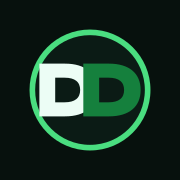
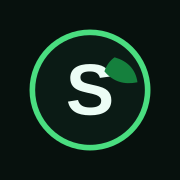
Rename app to Salix

Changed region(s): [[0.1944, 0.3056, 0.8056, 0.6667]]

diff --git a/index.html b/index.html
@@ -9,8 +9,8 @@
   <meta name="mobile-web-app-capable" content="yes" />
   <meta name="apple-mobile-web-app-capable" content="yes" />
   <meta name="apple-mobile-web-app-status-bar-style" content="black-translucent" />
-  <meta name="apple-mobile-web-app-title" content="DD Attendix" />
-  <title>Danube Dragons Attendance</title>
+  <meta name="apple-mobile-web-app-title" content="Salix" />
+  <title>Salix · Danube Dragons</title>
   <link rel="manifest" href="/manifest.webmanifest" />
   <link rel="icon" type="image/svg+xml" href="/icons/icon.svg" />
   <link rel="apple-touch-icon" href="/icons/apple-touch-icon.png" />
@@ -22,7 +22,7 @@
   <div id="loginScreen">
     <section class="hero">
       <div class="roleBadge">Login</div>
-      <h1>DD Attendix</h1>
+      <h1>Salix</h1>
       <p class="smallMuted">
         ...
       </p>
@@ -55,7 +55,7 @@
 
   <div id="appScreen" class="hidden app">
     <aside class="sidebar">
-      <div class="brand">Danube Dragons</div>
+      <div class="brand">Salix</div>
       <div class="nav" id="nav"></div>
     </aside>
 

diff --git a/offline.html b/offline.html
@@ -4,7 +4,7 @@
   <meta charset="UTF-8" />
   <meta name="viewport" content="width=device-width, initial-scale=1.0, viewport-fit=cover" />
   <meta name="theme-color" content="#07110d" />
-  <title>DD Attendix ist offline</title>
+  <title>Salix ist offline</title>
   <style>
     * { box-sizing: border-box; }
     body {
@@ -42,7 +42,7 @@
 <body>
   <main>
     <h1>Keine Verbindung</h1>
-    <p>DD Attendix kann gerade keine Verbindung herstellen. Bereits geladene Ansichten bleiben verfügbar. Für Anmeldung, aktuelle Trainingsdaten und Änderungen ist eine Internetverbindung erforderlich.</p>
+    <p>Salix kann gerade keine Verbindung herstellen. Bereits geladene Ansichten bleiben verfügbar. Für Anmeldung, aktuelle Trainingsdaten und Änderungen ist eine Internetverbindung erforderlich.</p>
     <button type="button" onclick="location.reload()">Erneut versuchen</button>
   </main>
 </body>

diff --git a/service-worker.js b/service-worker.js
@@ -1,4 +1,4 @@
-const CACHE_NAME = "dd-attendix-v1";
+const CACHE_NAME = "salix-v2";
 const APP_SHELL = [
   "/",
   "/index.html",

diff --git a/README.md b/README.md
@@ -1,6 +1,6 @@
-# DD Attendix
+# Salix
 
-DD Attendix ist die Anwesenheits- und Trainingsapp der Danube Dragons. Die Anwendung läuft als statische Web App auf Vercel und nutzt Supabase für Anmeldung, Rollen und Datenhaltung.
+Salix ist die Anwesenheits- und Trainingsapp der Danube Dragons. Die Anwendung läuft als statische Web App auf Vercel und nutzt Supabase für Anmeldung, Rollen und Datenhaltung.
 
 ## PWA
 
